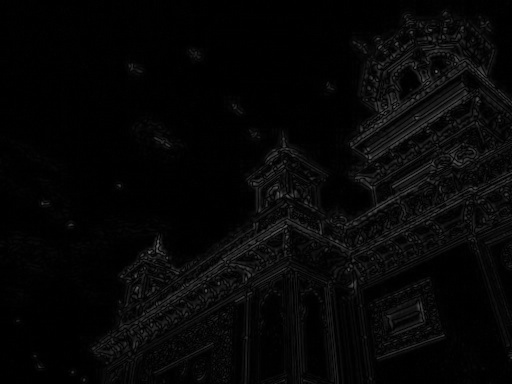
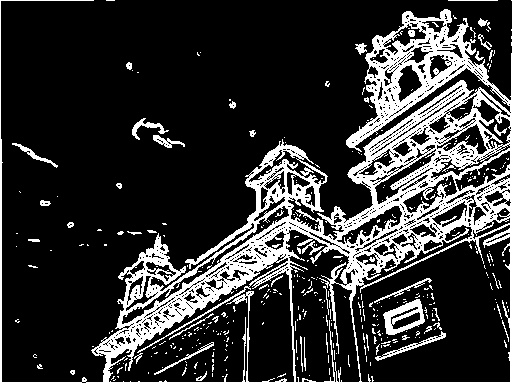
fill up all the output folder files

diff --git a/part3/seam_helper_functions.py b/part3/seam_helper_functions.py
@@ -282,8 +282,8 @@ if __name__ == "__main__":
     # show(*[curr_img, normalized_r_gradient, normalized_g_gradient, normalized_b_gradient, normalized_energy, ], \
     #        titles=["Rocket Energy", "Blue Gradient", "Green Gradient", "Red Gradient", "energy"], size=5)
 
-    # names = ["home.jpg", "rocket.jpg", "starry_night.jpg", "currents.jpg", "mountains.jpg", "anakin.jpeg"]
-    names = ["rocket.jpg"]
+    names = ["home.jpg", "rocket.jpg", "starry_night.jpg", "currents.jpg", "mountains.jpg", "anakin.jpg"]
+    # names = ["anakin.jpg"]
     for name in names:
         name_no_ext = name.split(".")[0]
         img = load_image(images_dir / name)
@@ -291,7 +291,7 @@ if __name__ == "__main__":
         new_dim = (img.shape[0], int(img.shape[1] * 0.7))
         finit_diff_energy = get_energy_grad_mag(img)
         dog_energy = get_dog_energy(img[:,:,0])
-        energy = dog_energy
+        energy = finit_diff_energy
         removed_seams, seam_carved_img = seam_carve(energy, img, new_dim, energy_fn=get_energy_grad_mag)
         img_vis = draw_removed_seams(removed_seams, img, color=(255, 0, 0))
         img_resized = resize_subsample(img, new_dim)
@@ -299,7 +299,7 @@ if __name__ == "__main__":
         img_cropped = img[cropped_out[0]//2:img.shape[0] - cropped_out[0]//2,
                         cropped_out[1]//2:img.shape[1] - cropped_out[1]//2]
 
-        energy_type = "dog_energy"
+        energy_type = "finit_diff_energy"
 
         save_image(folder_dir / "images" / energy_type / name_no_ext / f"seam_carved_{name}", seam_carved_img)
         save_image(folder_dir / "images" / energy_type / name_no_ext / f"resized_{name}", img_resized)
@@ -307,10 +307,10 @@ if __name__ == "__main__":
         save_image(folder_dir / "images" / energy_type / name_no_ext / f"energy_{name}", energy)
         save_image(folder_dir / "images" / energy_type / name_no_ext / f"removed_seams_{name}", img_vis)
         
-        show(img, img_resized, img_cropped, seam_carved_img,
-            titles=["Original", "Resized", "Cropped", "Seam Carved"], size=8)
-        show(img, energy, img_vis,
-            titles=["Original", "Energy", "Removed Seams"], size=8)
+        # show(img, img_resized, img_cropped, seam_carved_img,
+        #     titles=["Original", "Resized", "Cropped", "Seam Carved"], size=8)
+        # show(img, energy, img_vis,
+        #     titles=["Original", "Energy", "Removed Seams"], size=8)
     # show(*[curr_img, resized_img, vis], titles=["Original", "Resized", "Removed Seams"], size=5)
     # show(*[home_img, home_seam_carved_img, home_img_vis], titles=["Original", "Resized", "Removed Seams"], size=5)
     # show(*[rocket_img, rocket_seam_carved_img, rocket_img_vis], titles=["Original", "Resized", "Removed Seams"], size=5)
